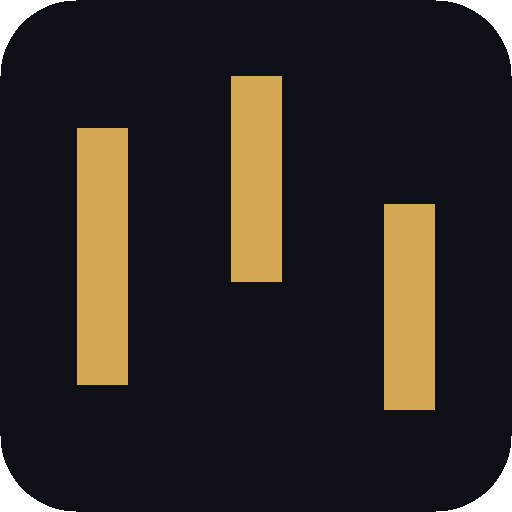
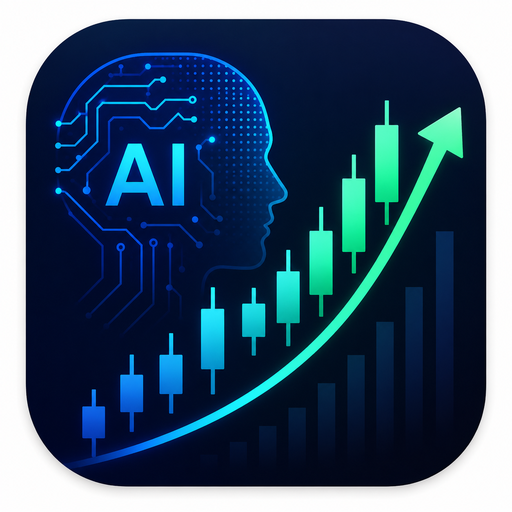
feat: アプリアイコン更新 + 仮シグナル（Watch）描画追加
- icons/: 新デザインアイコン5点を配置・更新
  (favicon-16/32, apple-touch-icon 180px, icon-192/512)
- manifest.json: theme/background_color を #0a1428（アイコン背景色）に変更
- HTML <head>: favicon-32x32・16x16 リンク追加、apple-touch-icon を 180px 版に修正
- calcWatchDivergence() 追加: 仮シグナル（Bear?/Bull?）をチャートと
  MACDパネルに半透明破線・絵文字で表示

diff --git a/stock_chart_development.html b/stock_chart_development.html
@@ -4,13 +4,15 @@
 <meta charset="UTF-8">
 <meta name="viewport" content="width=device-width, initial-scale=1.0, user-scalable=no">
 <title>株価チャート</title>
+<link rel="icon" type="image/png" sizes="32x32" href="icons/favicon-32x32.png">
+<link rel="icon" type="image/png" sizes="16x16" href="icons/favicon-16x16.png">
+<link rel="apple-touch-icon" sizes="180x180" href="icons/apple-touch-icon.png">
 <link rel="manifest" href="manifest.json">
-<meta name="theme-color" content="#d4a853">
+<meta name="theme-color" content="#0a1428">
 <meta name="mobile-web-app-capable" content="yes">
 <meta name="apple-mobile-web-app-capable" content="yes">
 <meta name="apple-mobile-web-app-status-bar-style" content="black-translucent">
 <meta name="apple-mobile-web-app-title" content="株チャート">
-<link rel="apple-touch-icon" href="icons/icon-192.png">
 <style>
 :root{
   --bg:#0d1117;--bg2:#161b22;--bg3:#1c2128;--bd:#30363d;
@@ -585,6 +587,7 @@ function calcSignals(){
   }
   SIG_DATA={ma,bb:bb_s,macd:macd_s,rsi:rsi_s};
   calcDivergence();
+  calcWatchDivergence();
 }
 
 /* ═══════════════════════════════════════════
@@ -662,12 +665,125 @@ function calcDivergence(){
 }
 
 /* ═══════════════════════════════════════════
+   WATCH DIVERGENCE DETECTION（仮シグナル）
+═══════════════════════════════════════════ */
+function calcWatchDivergence(){
+  WATCH_DIV_DATA=[];
+  const n=DATA.length;
+  if(n<20||!MD.hist.length)return;
+
+  const MIN_GAP=5,MAX_GAP=120,MIN_BARS=2;
+  const prev=n-2;  // 前日 ← シグナル付与日
+  if(prev<1)return;
+
+  // 確定済み＋未完結クラスター両方を返す版（isOpen=true で未完結を区別）
+  function getClustersForWatch(sign){
+    const clusters=[];
+    let inCluster=false,start=-1;
+    for(let i=0;i<n;i++){
+      const h=MD.hist[i];
+      if(h==null)continue;
+      const isSign=sign==='minus'?h<0:h>0;
+      if(isSign&&!inCluster){inCluster=true;start=i;}
+      else if(!isSign&&inCluster){
+        inCluster=false;
+        const end=i-1;
+        if(end-start+1<MIN_BARS)continue;
+        let extremeVal=sign==='minus'?Infinity:-Infinity,extremeIdx=start;
+        let priceExtreme=sign==='minus'?Infinity:-Infinity,priceExtremeIdx=start;
+        for(let k=start;k<=end;k++){
+          if(MD.hist[k]==null)continue;
+          if(sign==='minus'&&MD.hist[k]<extremeVal){extremeVal=MD.hist[k];extremeIdx=k;}
+          if(sign==='plus' &&MD.hist[k]>extremeVal){extremeVal=MD.hist[k];extremeIdx=k;}
+          if(sign==='minus'&&DATA[k].low <priceExtreme){priceExtreme=DATA[k].low; priceExtremeIdx=k;}
+          if(sign==='plus' &&DATA[k].high>priceExtreme){priceExtreme=DATA[k].high;priceExtremeIdx=k;}
+        }
+        clusters.push({start,end,extremeVal,extremeIdx,priceExtreme,priceExtremeIdx});
+      }
+    }
+    // 未完結クラスター（現在進行中）
+    if(inCluster){
+      const end=n-1;
+      if(end-start+1>=MIN_BARS){
+        let extremeVal=sign==='minus'?Infinity:-Infinity,extremeIdx=start;
+        let priceExtreme=sign==='minus'?Infinity:-Infinity,priceExtremeIdx=start;
+        for(let k=start;k<=end;k++){
+          if(MD.hist[k]==null)continue;
+          if(sign==='minus'&&MD.hist[k]<extremeVal){extremeVal=MD.hist[k];extremeIdx=k;}
+          if(sign==='plus' &&MD.hist[k]>extremeVal){extremeVal=MD.hist[k];extremeIdx=k;}
+          if(sign==='minus'&&DATA[k].low <priceExtreme){priceExtreme=DATA[k].low; priceExtremeIdx=k;}
+          if(sign==='plus' &&DATA[k].high>priceExtreme){priceExtreme=DATA[k].high;priceExtremeIdx=k;}
+        }
+        clusters.push({start,end,extremeVal,extremeIdx,priceExtreme,priceExtremeIdx,isOpen:true});
+      }
+    }
+    return clusters;
+  }
+
+  const plusClusters =getClustersForWatch('plus');
+  const minusClusters=getClustersForWatch('minus');
+
+  // ── Bear仮シグナル ──────────────────────────────────
+  // プラスクラスター形成中 & 前日が局所ピーク（前々日↑前日↓今日、プラス圏）
+  const lastPlus=plusClusters[plusClusters.length-1];
+  if(lastPlus&&lastPlus.isOpen){
+    const hToday=MD.hist[n-1],hPrev=MD.hist[prev],hPP=MD.hist[prev-1];
+    if(hToday!=null&&hPrev!=null&&hPP!=null&&hPrev>0&&hPrev>hPP&&hPrev>hToday){
+      const c1s=plusClusters.filter(c=>
+        !c.isOpen&&c.end<lastPlus.start&&
+        MIN_GAP<=lastPlus.start-c.end&&lastPlus.start-c.end<=MAX_GAP
+      );
+      if(c1s.length>0){
+        const c1=c1s[c1s.length-1];
+        const between=minusClusters.filter(m=>m.start>c1.end&&m.end<lastPlus.start);
+        if(between.length===1&&
+           lastPlus.priceExtreme>c1.priceExtreme&&   // 株価切り上げ
+           lastPlus.extremeVal  <c1.extremeVal){      // ヒスト切り下げ
+          WATCH_DIV_DATA.push({
+            type:'bear',idx:prev,priceIdx:prev,
+            idx1:c1.extremeIdx,c2PeakIdx:lastPlus.extremeIdx,
+            histVal1:c1.extremeVal,histVal2:lastPlus.extremeVal
+          });
+        }
+      }
+    }
+  }
+
+  // ── Bull仮シグナル ──────────────────────────────────
+  // マイナスクラスター形成中 & 前日が局所ボトム（前々日↓前日↑今日、マイナス圏）
+  const lastMinus=minusClusters[minusClusters.length-1];
+  if(lastMinus&&lastMinus.isOpen){
+    const hToday=MD.hist[n-1],hPrev=MD.hist[prev],hPP=MD.hist[prev-1];
+    if(hToday!=null&&hPrev!=null&&hPP!=null&&hPrev<0&&hPrev<hPP&&hPrev<hToday){
+      const c1s=minusClusters.filter(c=>
+        !c.isOpen&&c.end<lastMinus.start&&
+        MIN_GAP<=lastMinus.start-c.end&&lastMinus.start-c.end<=MAX_GAP
+      );
+      if(c1s.length>0){
+        const c1=c1s[c1s.length-1];
+        const between=plusClusters.filter(p=>p.start>c1.end&&p.end<lastMinus.start);
+        if(between.length===1&&
+           lastMinus.priceExtreme<c1.priceExtreme&&  // 株価切り下げ
+           lastMinus.extremeVal  >c1.extremeVal){     // ヒスト切り上げ
+          WATCH_DIV_DATA.push({
+            type:'bull',idx:prev,priceIdx:prev,
+            idx1:c1.extremeIdx,c2PeakIdx:lastMinus.extremeIdx,
+            histVal1:c1.extremeVal,histVal2:lastMinus.extremeVal
+          });
+        }
+      }
+    }
+  }
+}
+
+/* ═══════════════════════════════════════════
    STATE
 ═══════════════════════════════════════════ */
 let DATA=[], MA5=[], MA25=[], MA75=[], MD={ml:[],sig:[],hist:[]};
 let BB={mid:[],upper2:[],upper1:[],lower1:[],lower2:[]}, RSI_DATA=[];
 let SIG_DATA={ma:[],bb:[],macd:[],rsi:[]};
 let DIV_DATA=[];
+let WATCH_DIV_DATA=[];  // 仮シグナル（Bear?/Bull?）
 let _dbgLastDate=null;
 let DATA_D=[], DATA_W=[], TFRAME='d';
 
@@ -834,6 +950,31 @@ function drawMain(){
         const ay=ys(DATA[pi2].high)-3;
         ctx.fillText('🐻',x,ay-6);
       }
+    }
+  }
+
+  // Watch divergence marks (🐂❓ bull? / 🐻❓ bear?) — 仮シグナル（半透明）
+  if(WATCH_DIV_DATA.length&&IND.macd){
+    ctx.font='14px sans-serif';ctx.textAlign='center';
+    for(const dv of WATCH_DIV_DATA){
+      const pi=dv.priceIdx;
+      if(pi<s||pi>=e)continue;
+      const x=cx(pi,s,p.l);
+      ctx.globalAlpha=0.6;
+      if(dv.type==='bull'){
+        const ay=ys(DATA[pi].low)+3;
+        ctx.fillText('🐂',x,ay+16);
+        ctx.font='10px sans-serif';
+        ctx.fillText('❓',x+10,ay+8);
+        ctx.font='14px sans-serif';
+      }else{
+        const ay=ys(DATA[pi].high)-3;
+        ctx.fillText('🐻',x,ay-6);
+        ctx.font='10px sans-serif';
+        ctx.fillText('❓',x+10,ay-14);
+        ctx.font='14px sans-serif';
+      }
+      ctx.globalAlpha=1.0;
     }
   }
 
@@ -1299,6 +1440,20 @@ function drawMacd(){
       ctx.lineWidth=0.9;ctx.setLineDash([2,3]);
       ctx.beginPath();ctx.moveTo(x1,y1);ctx.lineTo(x2,y2);ctx.stroke();
       ctx.setLineDash([]);
+    }
+  }
+  // 仮シグナル破線（半透明の細破線）
+  if(WATCH_DIV_DATA.length){
+    for(const dv of WATCH_DIV_DATA){
+      const {idx1,c2PeakIdx,histVal1,histVal2}=dv;
+      if(c2PeakIdx<s||idx1>=e)continue;
+      const x1=cx(idx1,s,p.l),    y1=ysHist(histVal1);
+      const x2=cx(c2PeakIdx,s,p.l),y2=ysHist(histVal2);
+      ctx.strokeStyle=dv.type==='bull'?'rgba(239,83,80,0.45)':'rgba(38,166,154,0.45)';
+      ctx.lineWidth=0.8;ctx.setLineDash([2,4]);
+      ctx.globalAlpha=0.7;
+      ctx.beginPath();ctx.moveTo(x1,y1);ctx.lineTo(x2,y2);ctx.stroke();
+      ctx.setLineDash([]);ctx.globalAlpha=1.0;
     }
   }
   ctx.restore();
